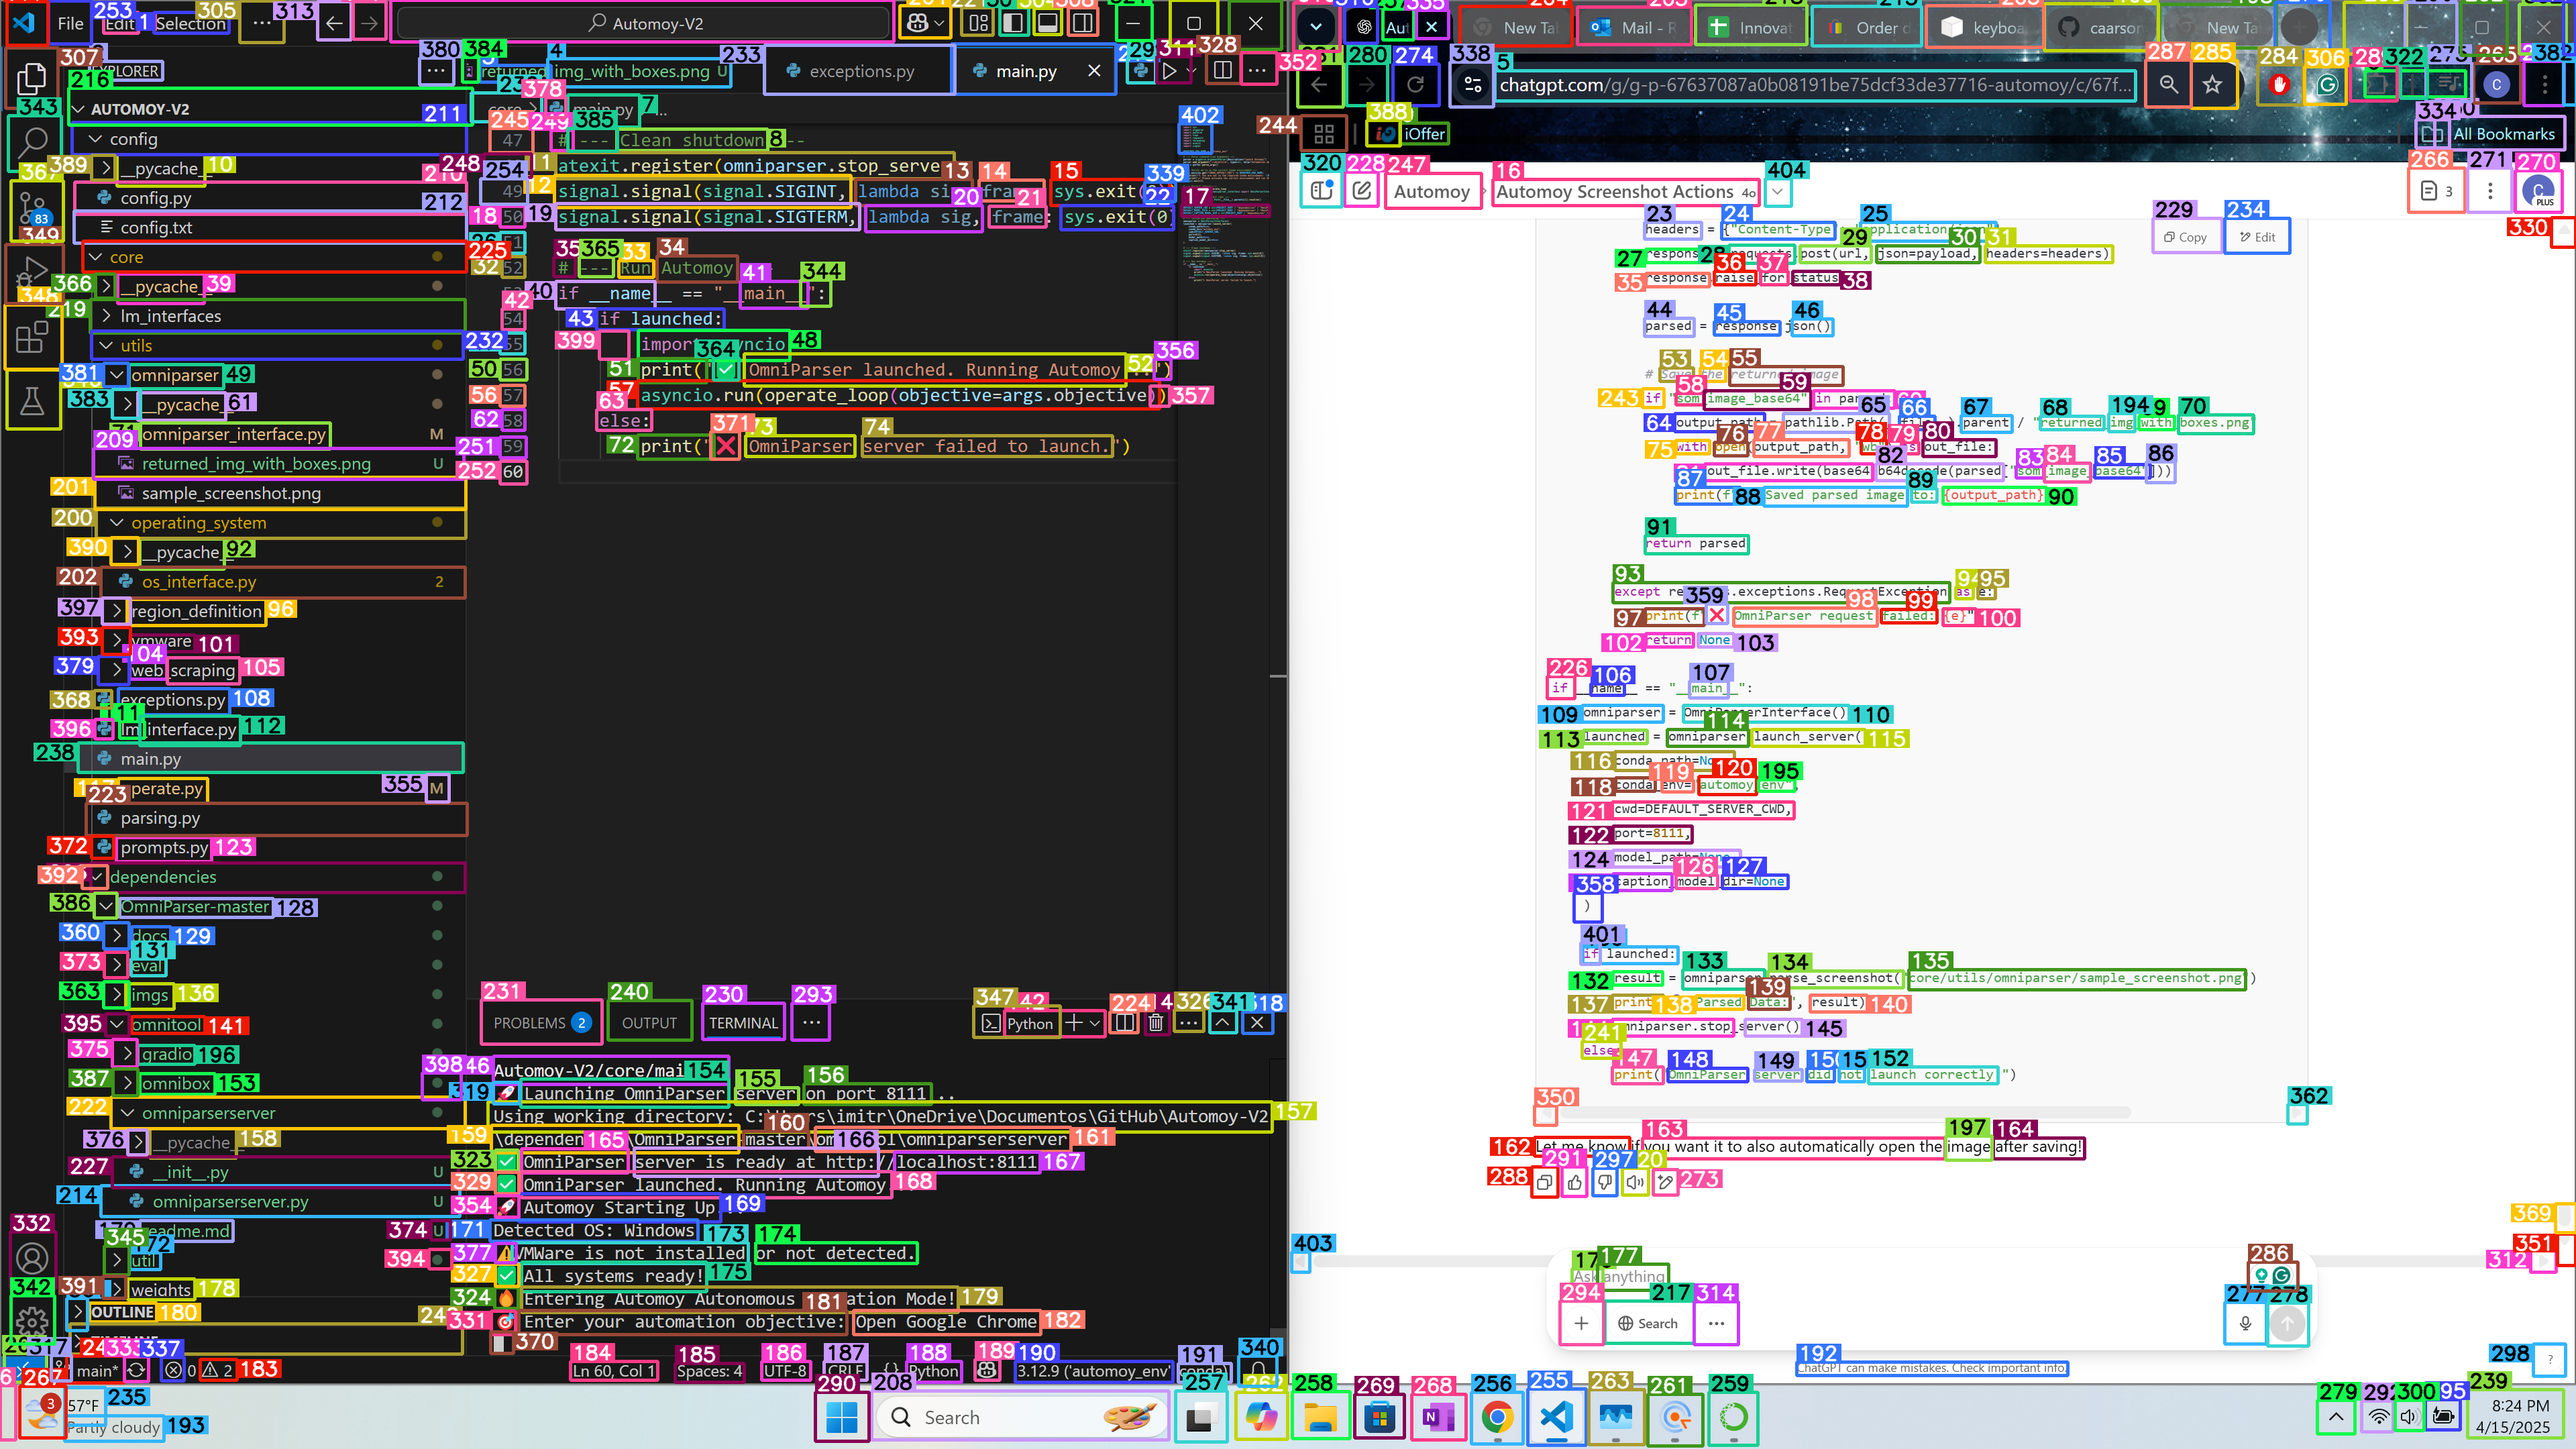
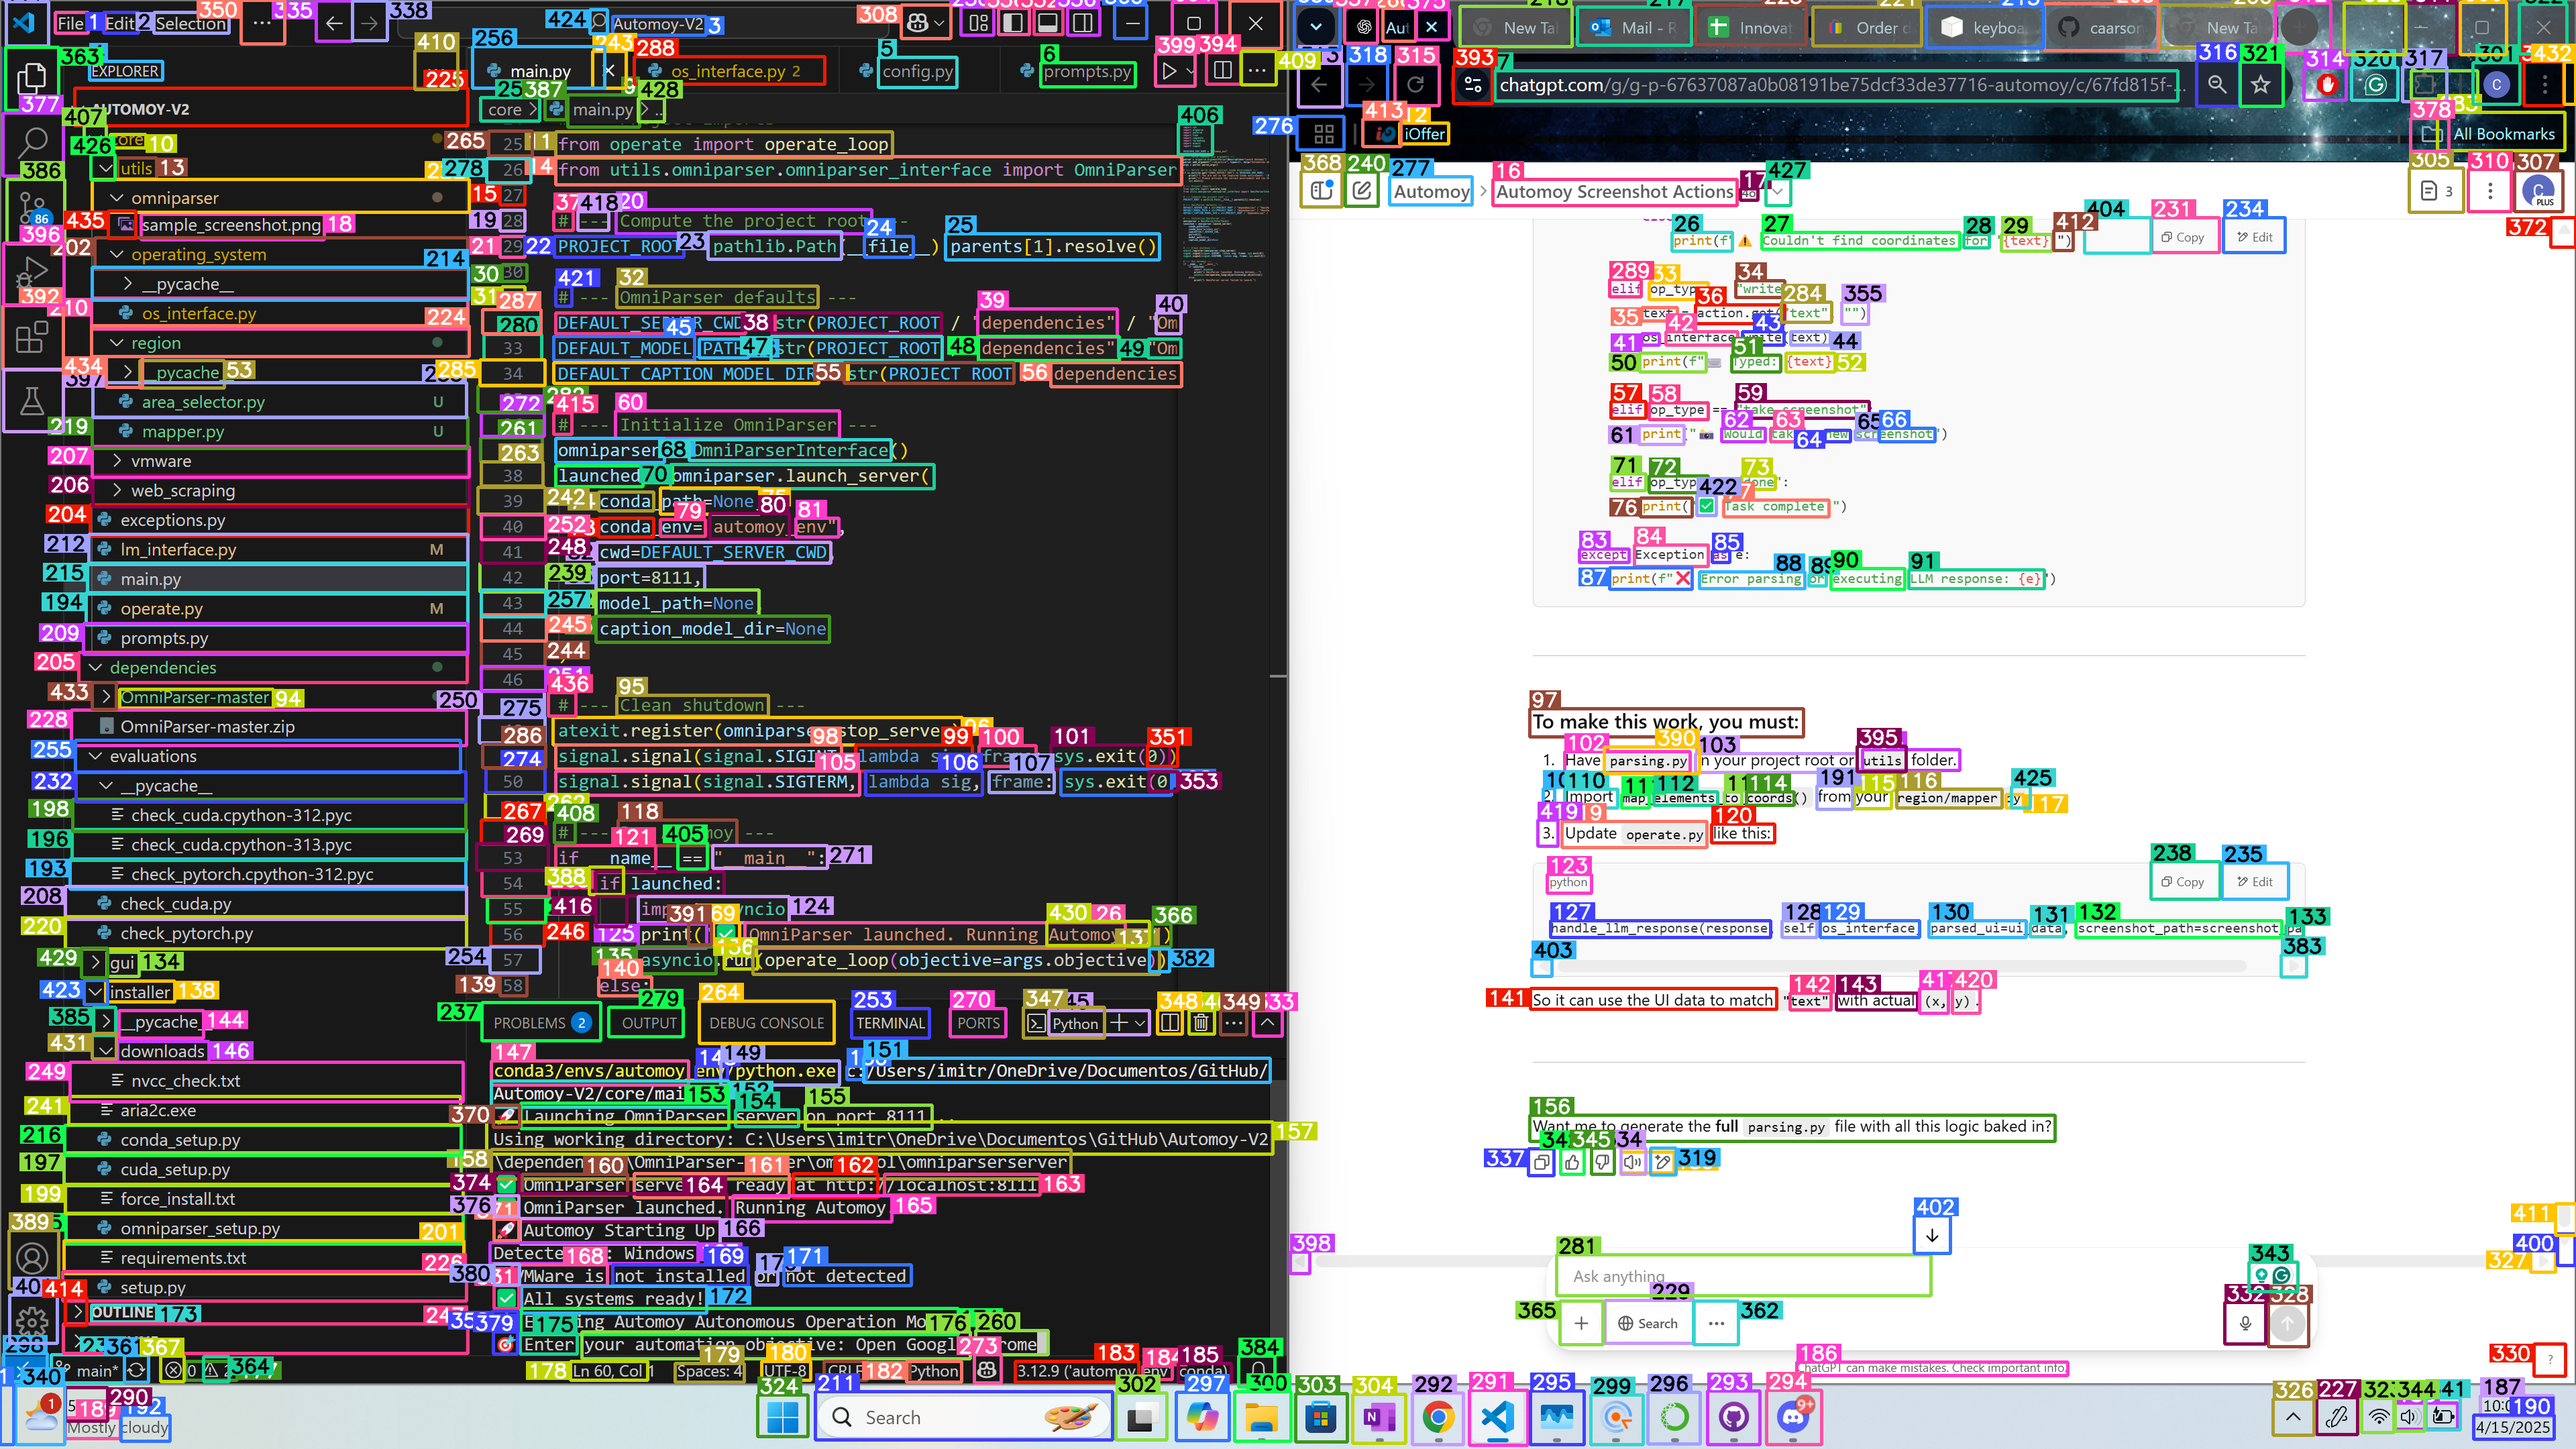
Add mapper, rename region folder, remove parsing, move to llm_interface.

diff --git a/core/lm_interface.py b/core/lm_interface.py
@@ -1,0 +1,50 @@
+import json
+import re
+from utils.region.mapper import map_elements_to_coords
+
+def handle_llm_response(response, os_interface, parsed_ui=None, screenshot_path=None):
+    try:
+        # Extract the JSON from the code block
+        code_block = re.search(r"```json\s*(.*?)\s*```", response, re.DOTALL)
+        if not code_block:
+            print("⚠ Could not extract a valid JSON action from LLM response.")
+            return
+
+        action_list = json.loads(code_block.group(1))
+        action = action_list[0]
+        op_type = action.get("operation")
+
+        if op_type == "press":
+            keys = action.get("keys", [])
+            for key in keys:
+                os_interface.press(key)
+            print(f"⌨ Simulated Key Press: {keys}")
+
+        elif op_type == "click":
+            text = action.get("text")
+            if not text or not parsed_ui:
+                print(f"🖱 Would click: {action}")
+                return
+
+            coords = map_elements_to_coords(parsed_ui, screenshot_path)
+            match = coords.get(text)
+            if match:
+                x, y = match
+                os_interface.click(x, y)
+                print(f"🖱 Clicked on '{text}' at ({x}, {y})")
+            else:
+                print(f"⚠ Couldn't find coordinates for '{text}'")
+
+        elif op_type == "write":
+            text = action.get("text", "")
+            os_interface.write(text)
+            print(f"⌨ Typed: {text}")
+
+        elif op_type == "take_screenshot":
+            print("📸 Would take a new screenshot")
+
+        elif op_type == "done":
+            print("✅ Task complete.")
+
+    except Exception as e:
+        print(f"❌ Error parsing or executing LLM response: {e}")

diff --git a/core/operate.py b/core/operate.py
@@ -8,7 +8,8 @@ from utils.vmware.vmware_interface import VMWareInterface
 from utils.web_scraping.webscrape_interface import WebScrapeInterface
 from lm_interfaces.main_interface import MainInterface
 from prompts import get_system_prompt
-from parsing import handle_llm_response
+from lm_interface import handle_llm_response
+from utils.region.mapper import map_elements_to_coords  # ✅ NEW import
 
 sys.path.append(str(pathlib.Path(__file__).resolve().parents[1] / "config"))
 from config import Config
@@ -59,11 +60,9 @@ class AutomoyOperator:
 
                 if ui_data:
                     print("🖼 Parsed UI Data:")
-                    for entry in ui_data.get("parsed_content_list", []):
-                        content = entry.get("content", "")
-                        position = entry.get("position", {})
-                        x, y = position.get("x"), position.get("y")
-                        print(f" - [{entry['type'].upper()}] '{content}' at ({x}, {y})")
+                    coords = map_elements_to_coords(ui_data, screenshot_path)  # ✅ NEW: map coordinates
+                    for el in coords:
+                        print(f" - [{el['type'].upper()}] '{el['content']}' at center {el['center']}")
 
                 raw_html_text = self.webscraper.fetch_page_content("https://example.com")
                 if raw_html_text:

diff --git a/core/utils/region/mapper.py b/core/utils/region/mapper.py
@@ -1,0 +1,31 @@
+from PIL import Image
+
+def map_elements_to_coords(parsed_result, image_path):
+    """Convert normalized bbox to pixel coordinates."""
+    if not parsed_result or "parsed_content_list" not in parsed_result:
+        return []
+
+    image = Image.open(image_path)
+    width, height = image.size
+    elements = []
+
+    for item in parsed_result["parsed_content_list"]:
+        x1, y1, x2, y2 = item["bbox"]
+        abs_x1 = int(x1 * width)
+        abs_y1 = int(y1 * height)
+        abs_x2 = int(x2 * width)
+        abs_y2 = int(y2 * height)
+        center_x = (abs_x1 + abs_x2) // 2
+        center_y = (abs_y1 + abs_y2) // 2
+
+        elements.append({
+            "type": item["type"],
+            "content": item["content"],
+            "center": (center_x, center_y),
+            "top_left": (abs_x1, abs_y1),
+            "bottom_right": (abs_x2, abs_y2),
+            "interactivity": item.get("interactivity", False),
+            "source": item.get("source", None)
+        })
+
+    return elements
